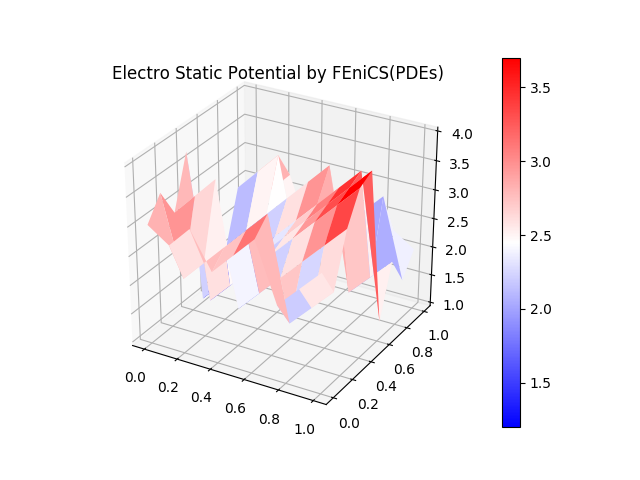
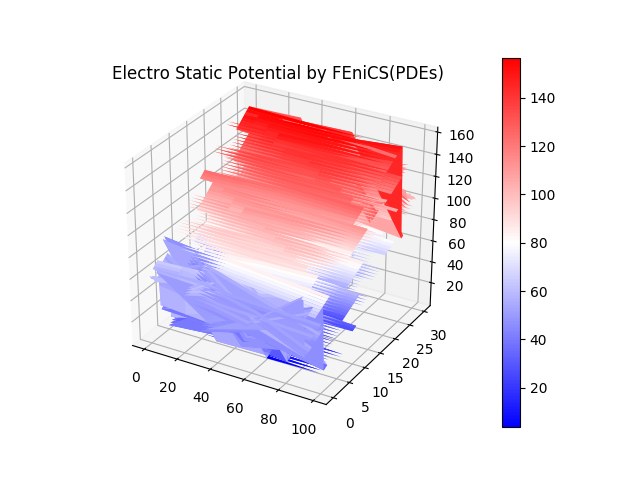
add rectangler mesh insted of unitsquare mesh in poisson.py

diff --git a/poisson.py b/poisson.py
@@ -31,8 +31,17 @@ f_code = sym.printing.ccode(f)
 print('u =', u_code)
 print('f =', f_code)
 
+
+# create mesh
+xin = 0
+yin = 0
+xfi = 100
+yfi = 30
+nx = 100
+ny = 30
+
 # Create mesh and define function space
-mesh = UnitSquareMesh(8, 8)
+mesh = RectangleMesh(Point(xin, yin), Point(xfi, yfi), nx, ny)
 V = FunctionSpace(mesh, 'P', 1)
 
 # Define boundary condition
@@ -51,9 +60,6 @@ F = q(u)*dot(grad(u), grad(v))*dx - f*v*dx
 
 # Compute solution
 solve(F == 0, u, bc)
-
-arr = np.array(u.vector()[:])
-np.reshape(arr, (9, 9))
 
 # output potential calculated with FEniCS
 """
@@ -75,9 +81,9 @@ for i in range(mesh.num_vertices()):
     x = np.append(x, grid[i][0])
     y = np.append(y, grid[i][1])
     z = np.append(z, u_array[i])
-X = np.reshape(x, (9,9)) 
-Y = np.reshape(y, (9,9))
-Z = np.reshape(z, (9,9))
+X = np.reshape(x, (nx+1,ny+1)) 
+Y = np.reshape(y, (nx+1,ny+1))
+Z = np.reshape(z, (nx+1,ny+1))
 fig = plt.figure()
 ax = fig.add_subplot(111, projection='3d')
 surf = ax.plot_surface(X ,Y, Z, cmap='bwr', linewidth=0)

diff --git a/schrodinger.py b/schrodinger.py
@@ -1,0 +1,11 @@
+from __future__ import print_function
+import matplotlib
+matplotlib.use('Agg')
+import matplotlib.pyplot as plt
+import numpy as 
+import math
+
+def makeHamiltonian(mesh, potential):
+    hamiltonian = np.zeros(math.sqrt(mesh.num_vertices()))
+    for i in range(mesh.num_vertices()):
+        for 
